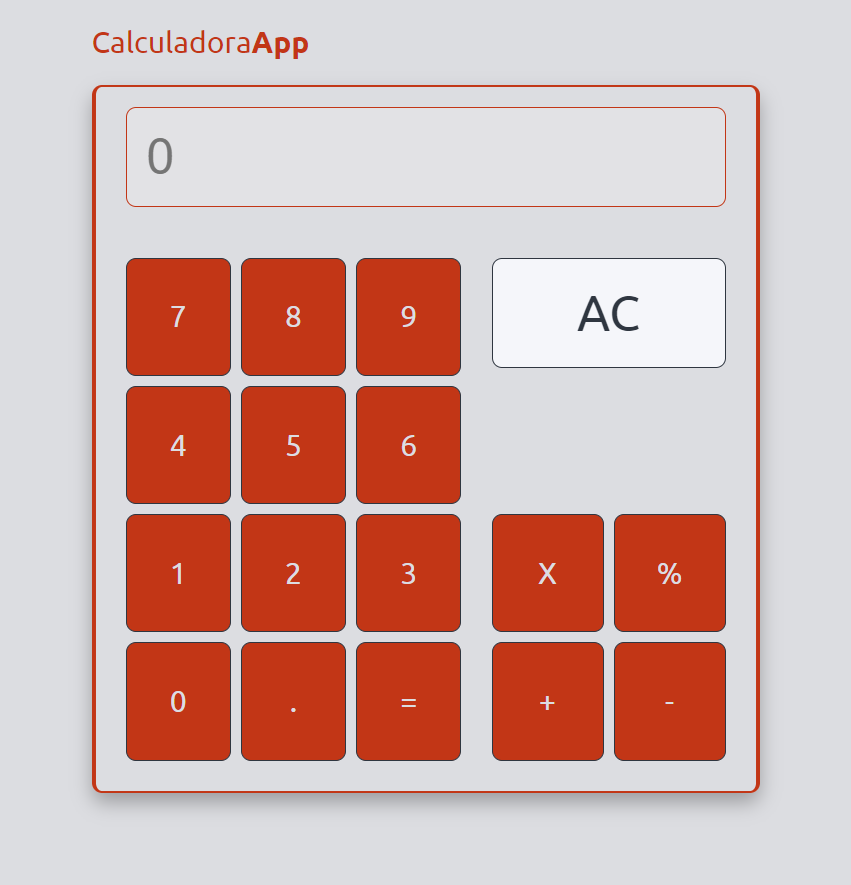
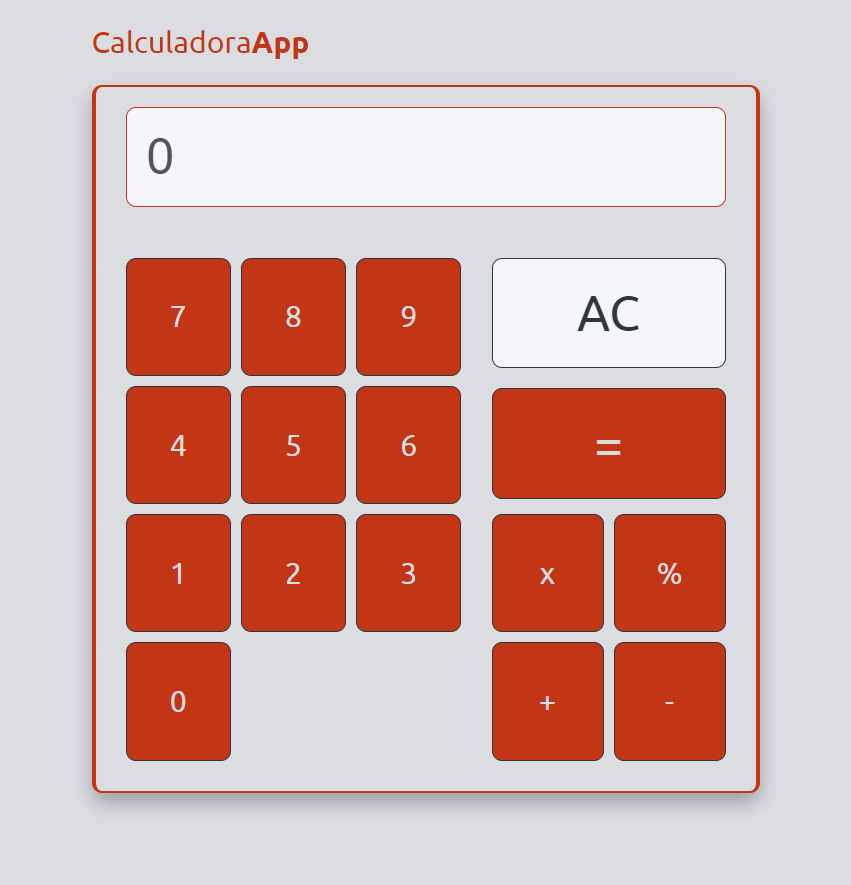
Lógica terminada

diff --git a/js/script.js b/js/script.js
@@ -1,35 +1,70 @@
+// Variables
 let pantalla = document.getElementById('pantalla');
-let contador = "";
-let resultado;
+let typeOperation,
+    number1,
+    flagOperation=false;
 
 // Eventos 
 document.getElementById('botones').addEventListener('click', mostrador);
 document.getElementById('funciones').addEventListener('click', mostrador);
+document.getElementById('igual').addEventListener('click', mostrador);
 document.getElementById('borrar').addEventListener('click', function(e){
     // Reseteamos valores
     pantalla.value = 0;
-    contador = "";
 })
 
-// Funciones para mostrar los que clickea el usuario por pantalla
+// Funcion para mostrar los que clickea el usuario por pantalla
 function mostrador(e){
     // Obtenemos el valor del click
-    let user = e.target.getAttribute('value');
-    // Comparamos si es el primer click que da o no
-    if(pantalla.value == 0){
-        pantalla.value = user;
-    } else{
-        pantalla.value += user;
-    }
-    // Vemos si hizo click en "="(igual)
-    if(user == "="){
-        operaciones()
-    }
-    // Vamos acumulando todo los que clickea el usuario en la variable contador
-    contador += user.toString();
+    let user = e.target.textContent;
+    const d = e.target.dataset;
+    // Nos aseguramos que el usuario no clickee entre los botones
+    if (d.dead) return
+    // Comparamos si es el primer click que da o si la bandera flagOperation esta encendida
+    pantalla.value == 0 || flagOperation ? pantalla.value = user : pantalla.value += user;
+    // Reseteamos valores
+    flagOperation = false;
+    // Verificamos si lo que clickeó el usuario es una operación
+    if(d.operation) getOperation(d.operation, user);
 }
 
 // OPERACIONES
-function operaciones(){
-    console.log(contador);
+function getOperation(op, type){
+    // Vemos si hizo click en "="(igual)
+    if(type == "="){
+        runCalculator();
+        return
+    }
+    // Almacenamos el primer nro en una variable
+    number1 = parseInt(pantalla.value);
+    // Mostramos y almacenamos el tipo de operacion
+    typeOperation = op;
+    pantalla.value = type;
+    // Prendemos la bandera en que ya se utilizo una operacion
+    flagOperation = true;
+}
+function runCalculator(){
+    let resultado,
+        number2 = parseInt(pantalla.value);
+    // Verificamos que operacion realizó
+    switch (typeOperation) {
+        case 'mul':
+            resultado = number1 * number2;
+            break;
+        case 'div':
+            resultado = number1 / number2;
+            break;
+        case 'sum':
+            resultado = number1 + number2;
+            break;
+        case 'res':
+            resultado = number1 - number2;
+            break;
+    }
+    // Mostramos el resultado
+    pantalla.value = resultado;
+
+    // Resetamos los valores
+    number1 = "";
+    number2 = "";
 }

diff --git a/index.html b/index.html
@@ -24,25 +24,26 @@
             <div class="pantalla">
                 <input type="text" placeholder="0" id="pantalla" disabled>
             </div>
-            <div class="botones" id="botones">
-                <a href="#" value="7">7</a>
-                <a href="#" value="8">8</a>
-                <a href="#" value="9">9</a>
-                <a href="#" value="4">4</a>
-                <a href="#" value="5">5</a>
-                <a href="#" value="6">6</a>
-                <a href="#" value="1">1</a>
-                <a href="#" value="2">2</a>
-                <a href="#" value="3">3</a>
-                <a href="#" value="0">0</a>
-                <a href="#" value=".">.</a>
-                <a href="#" value="=">=</a>
+            <div class="botones" id="botones" data-dead="dead">
+                <a href="#" value="7" data-number="7">7</a>
+                <a href="#" value="8" data-number="8">8</a>
+                <a href="#" value="9" data-number="9">9</a>
+                <a href="#" value="4" data-number="4">4</a>
+                <a href="#" value="5" data-number="5">5</a>
+                <a href="#" value="6" data-number="6">6</a>
+                <a href="#" value="1" data-number="1">1</a>
+                <a href="#" value="2" data-number="2">2</a>
+                <a href="#" value="3" data-number="3">3</a>
+                <a href="#" value="0" data-number="0">0</a>
+            </div>
+            <div class="igual" id="igual">
+                <a href="#" value="=" data-operation="igual">=</a>
             </div>
             <div class="funciones" id="funciones">
-                <a href="#" value="*">X</a>
-                <a href="#" value="/">%</a>
-                <a href="#" value="+">+</a>
-                <a href="#" value="-">-</a>
+                <a href="#" value="mul" data-operation="mul">x</a>
+                <a href="#" value="div" data-operation="div">%</a>
+                <a href="#" value="sum" data-operation="sum">+</a>
+                <a href="#" value="res" data-operation="res">-</a>
             </div>
             <div class="borrar" id="borrar">
                 <a href="#">AC</a>

diff --git a/css/style.css b/css/style.css
@@ -64,6 +64,7 @@ a{
     width: 100%;
     height: 10rem;
     font-size: 5rem;
+    background-color: var(--primaryLigth);
     border: 1px solid var(--secondary);
     border-radius: 1rem;
     padding-left: 2rem;
@@ -112,10 +113,29 @@ a{
     border-radius: 1rem;
     transition: .5s;
 }
-.funciones a:hover{
+.funciones a:hover,
+.igual a:hover{
     background-color: var(--primary);
     color: var(--secondary);
 }
+.igual{
+    grid-column: 4/6;
+    grid-row: 3/4;
+    font-size: 5rem;
+    margin: 2rem 3rem 1rem 0;
+}
+.igual a{
+    background-color: var(--secondary);
+    display: flex;
+    align-items: center;
+    justify-content: center;
+    border: 1px solid var(--letter);
+    border-radius: 1rem;
+    transition: .5s;
+    height: 100%;
+    color: var(--primary);
+}
+
 .borrar{
     grid-column: 4/6;
     grid-row: 2/3;
